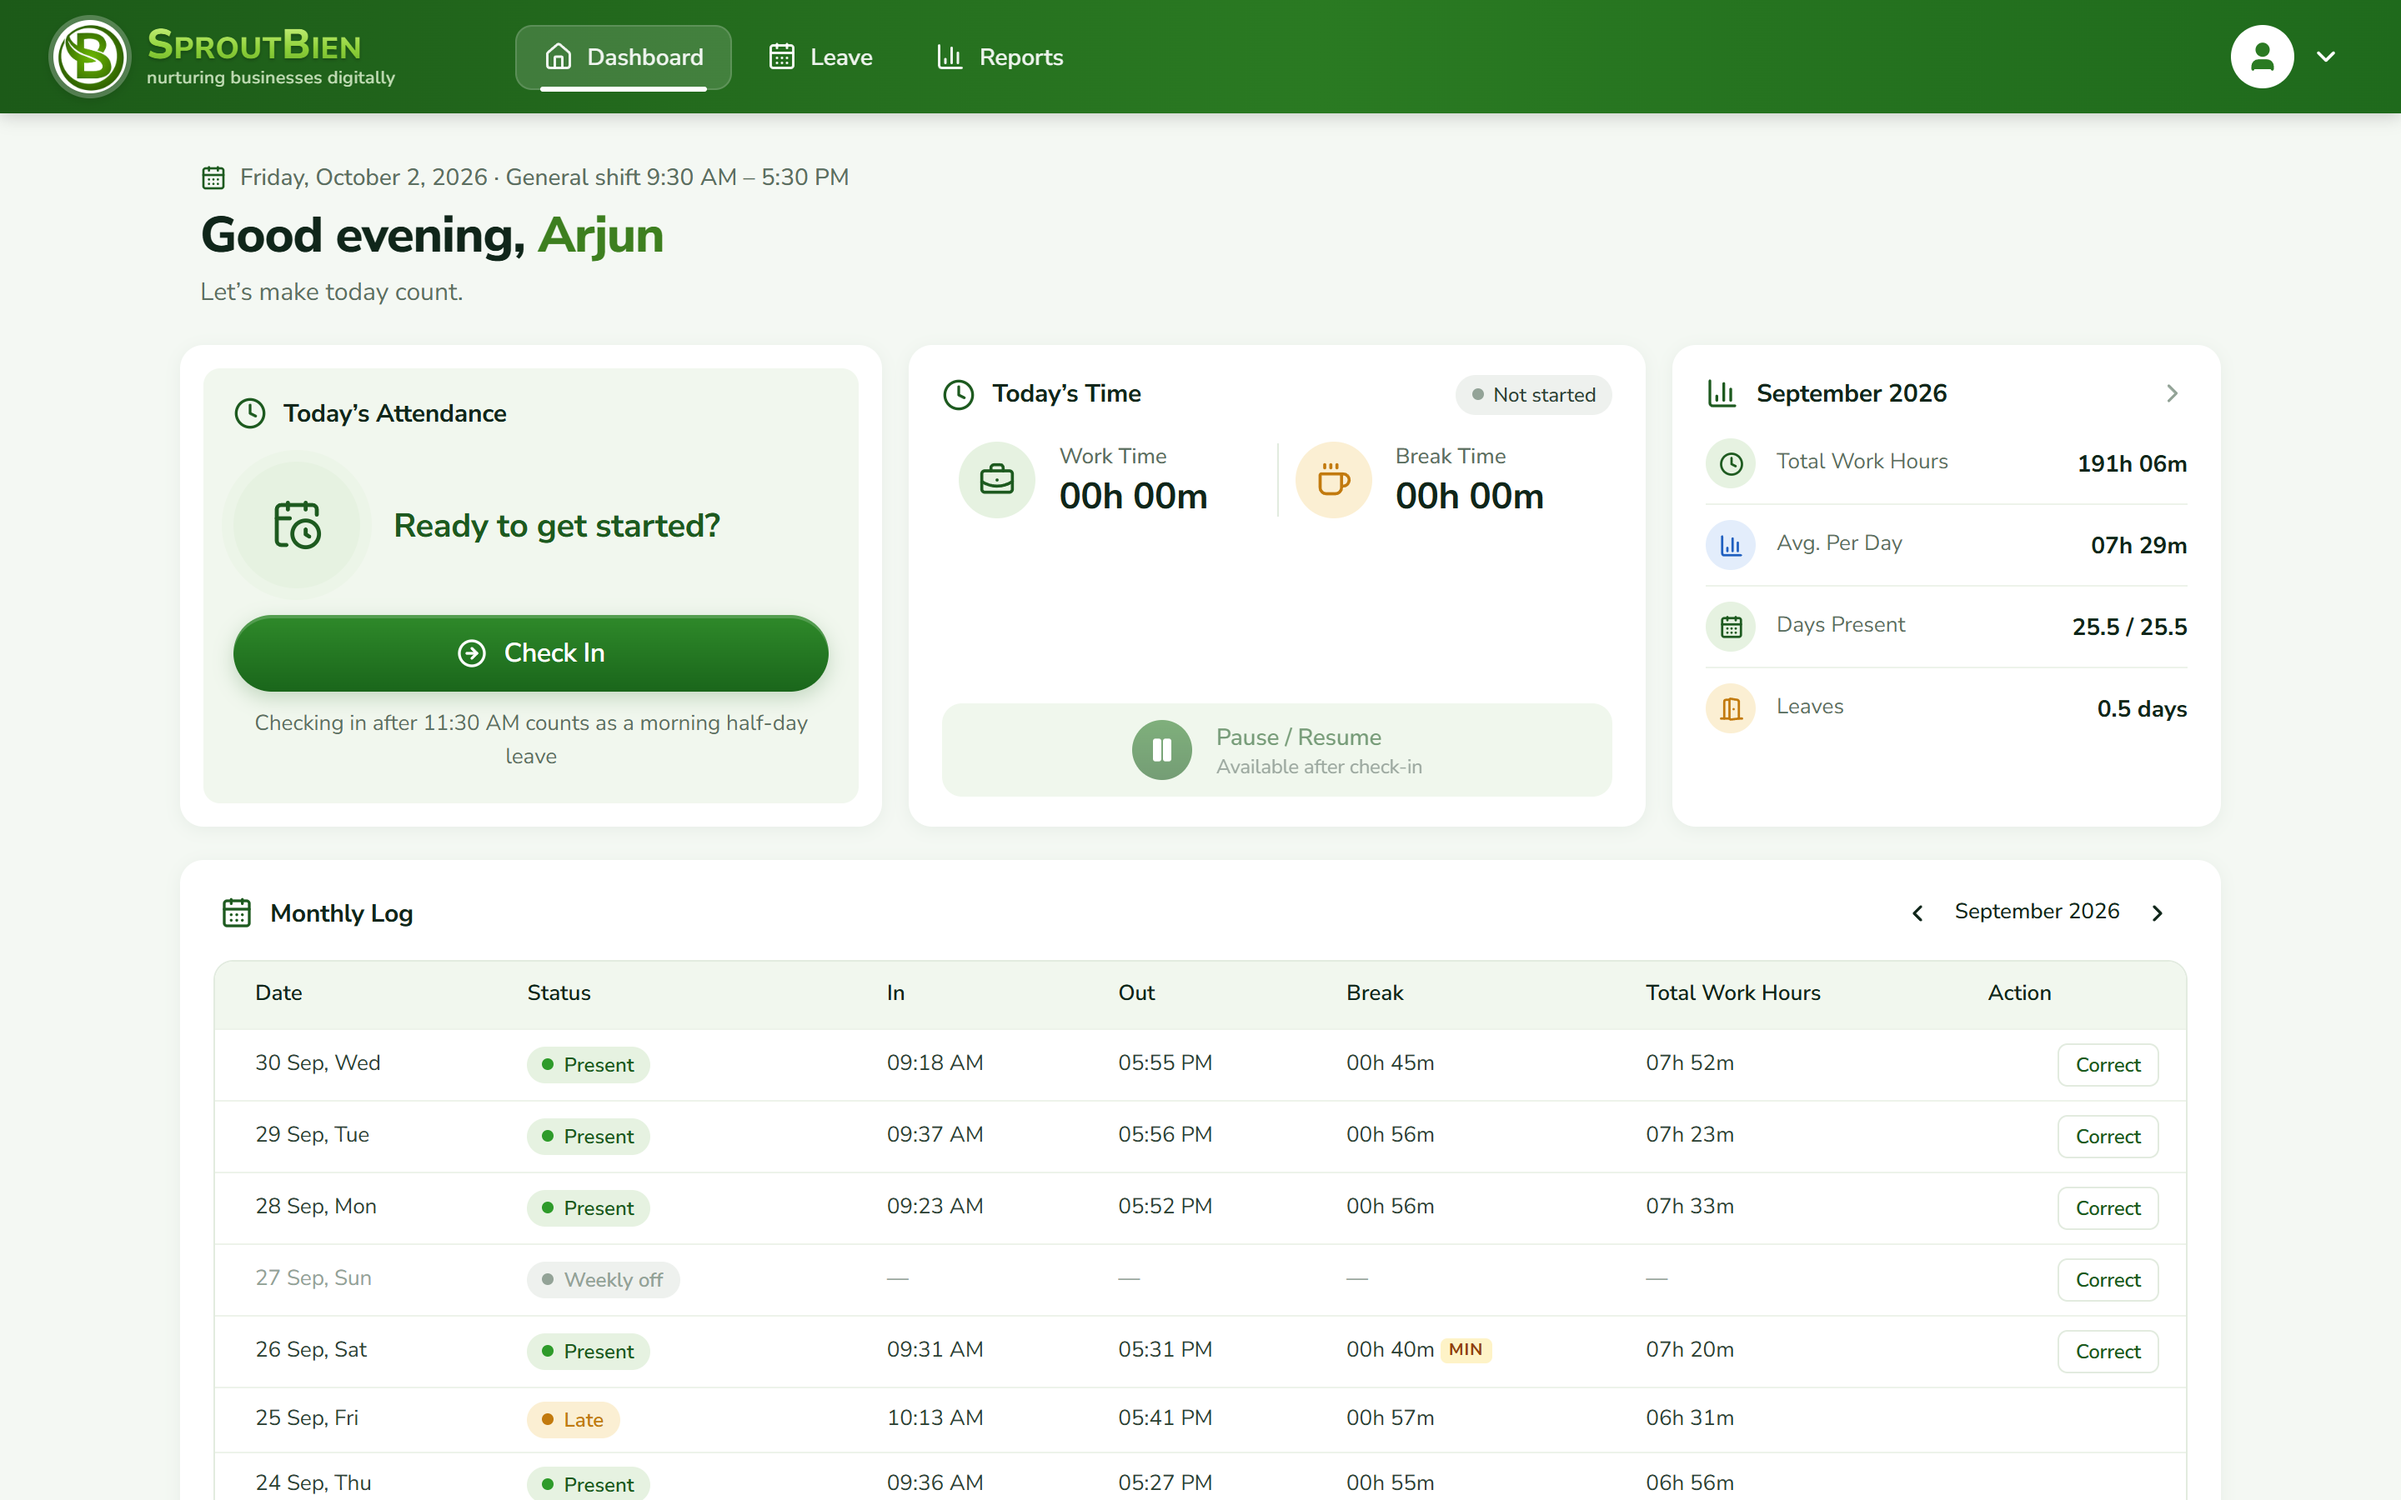
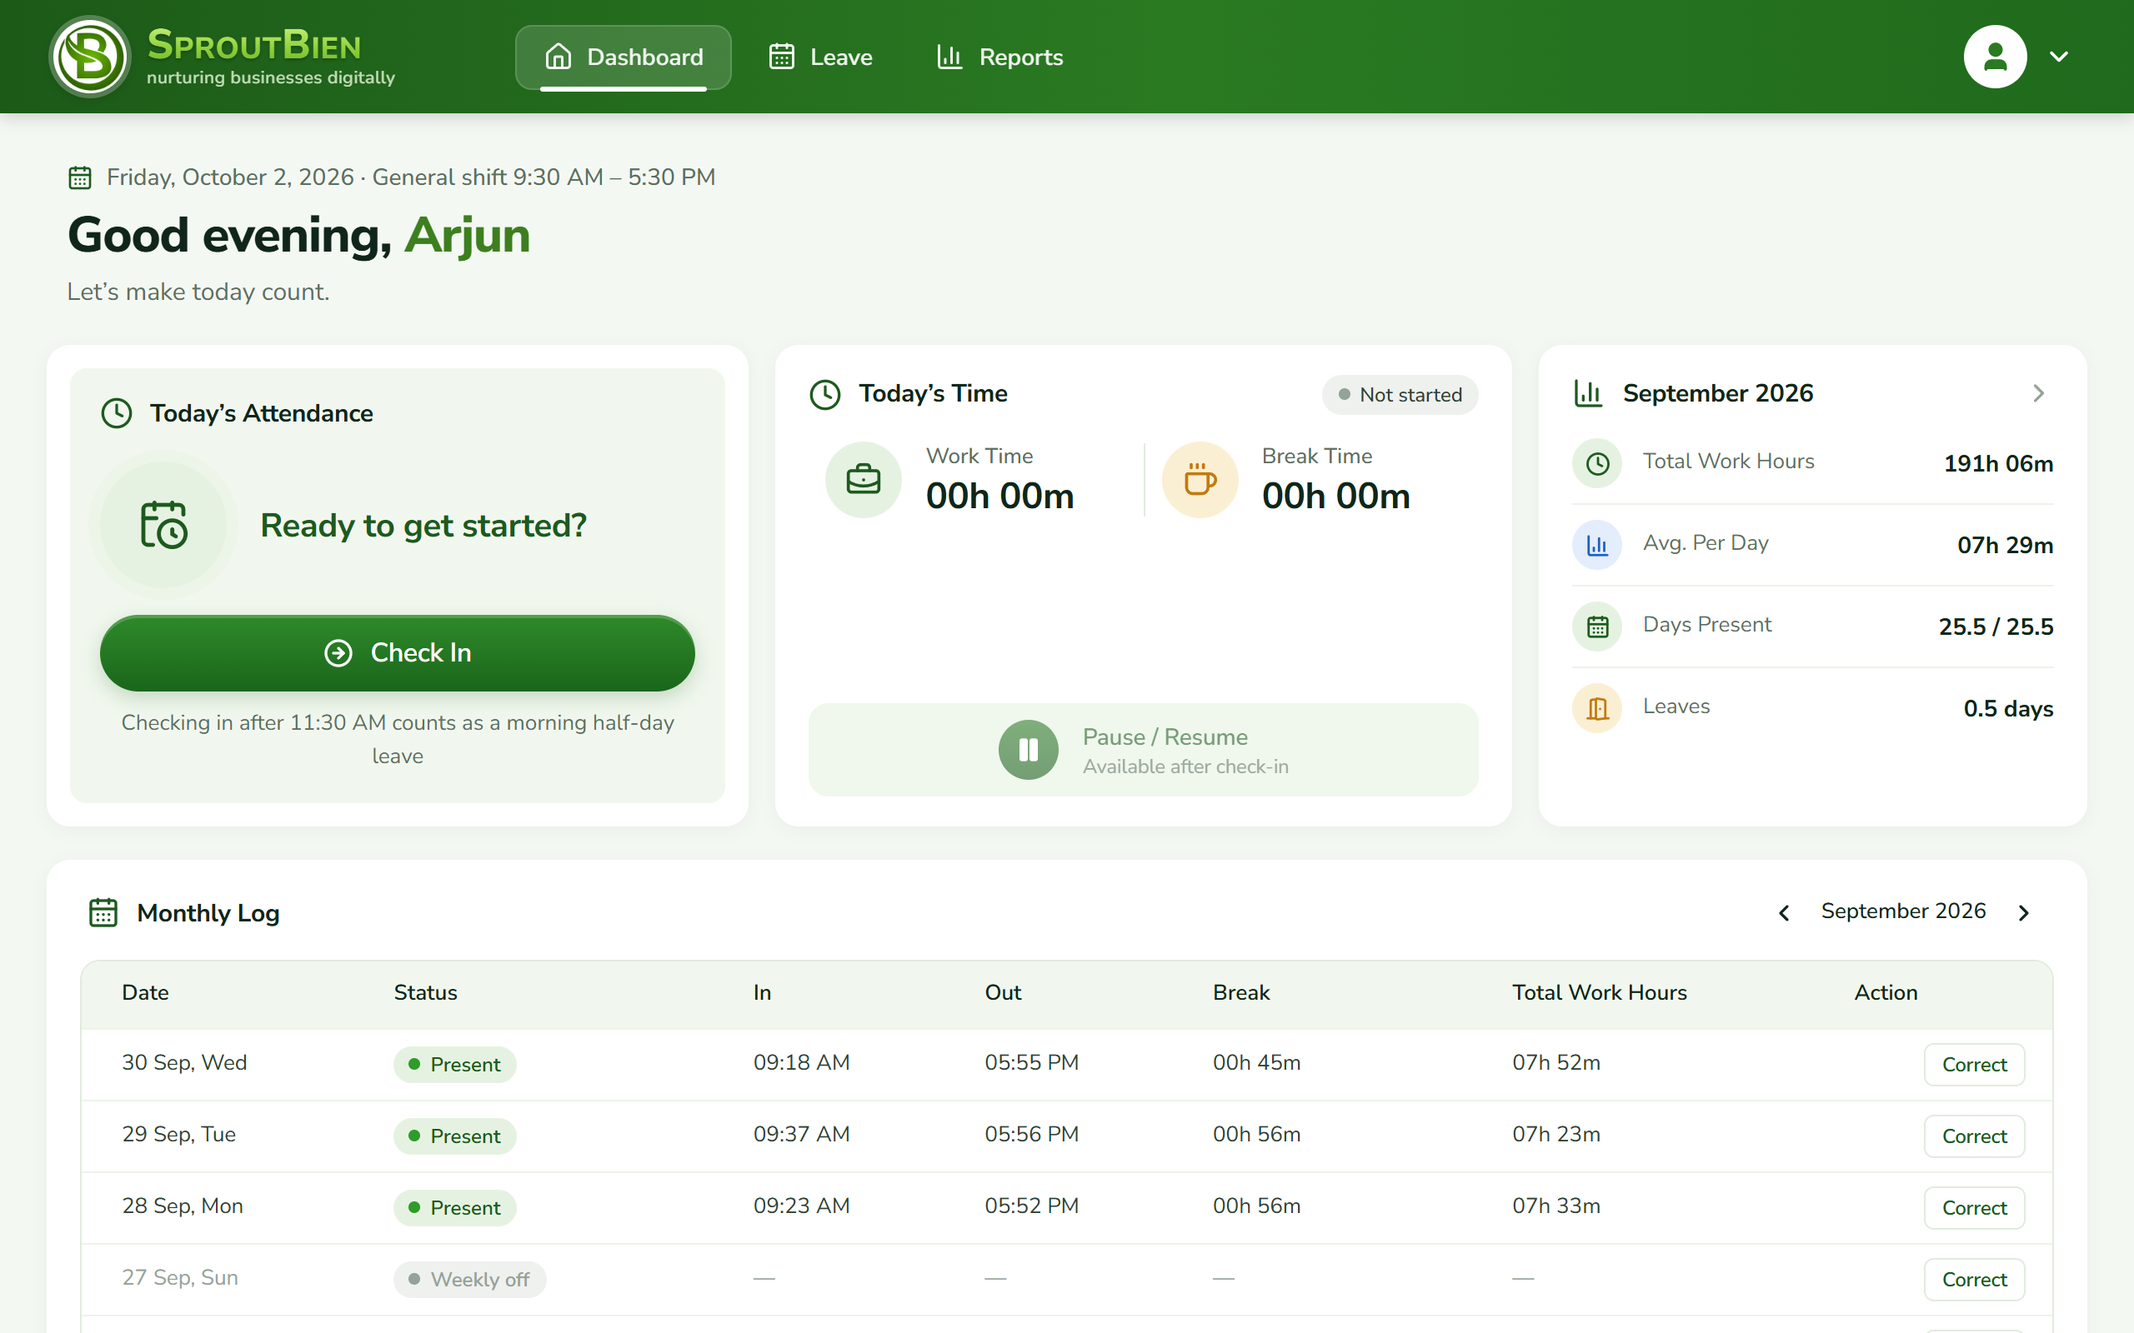
feat: light theme, bigger screenshots, click to enlarge
Always light. Wider layout with more room for screenshots, retaken at 1280x800
so their text is larger. Clicking a screenshot opens a full-screen viewer with
previous/next, Esc to close and tap-to-zoom on phones. Phone screenshots show
the app's new mobile layout.

diff --git a/src/styles.css b/src/styles.css
@@ -1,4 +1,4 @@
-/* Tokens follow the app's .sb-app palette (attendance-app/src/styles/app.css) */
+/* Tokens follow the app's .sb-app palette (attendance-app/src/styles/app.css). Light theme only. */
 :root {
   --bg:           #f4f8f3;
   --surface:      #ffffff;
@@ -18,40 +18,6 @@
   --shadow-lg:    0 24px 60px -24px rgba(22, 60, 26, 0.35);
   --radius:       16px;
   color-scheme: light;
-}
-
-@media (prefers-color-scheme: dark) {
-  :root:not([data-theme="light"]) {
-    --bg:           #0b1510;
-    --surface:      #111e16;
-    --surface-soft: #13221a;
-    --border:       #22362a;
-    --text-strong:  #e8f3ea;
-    --text:         #c9d9cd;
-    --text-muted:   #93a99a;
-    --green:        #7fd35a;
-    --green-dark:   #8fdc6a;
-    --green-soft:   #1b3322;
-    --band:         linear-gradient(120deg, #0c2a0d 0%, #133f13 50%, #174a17 100%);
-    --shadow:       0 2px 12px rgba(0, 0, 0, 0.35);
-    --shadow-lg:    0 24px 60px -24px rgba(0, 0, 0, 0.7);
-    color-scheme: dark;
-  }
-}
-
-:root[data-theme="dark"] {
-  --bg:           #0b1510;
-  --surface:      #111e16;
-  --surface-soft: #13221a;
-  --border:       #22362a;
-  --text-strong:  #e8f3ea;
-  --text:         #c9d9cd;
-  --text-muted:   #93a99a;
-  --green:        #7fd35a;
-  --green-dark:   #8fdc6a;
-  --green-soft:   #1b3322;
-  --band:         linear-gradient(120deg, #0c2a0d 0%, #133f13 50%, #174a17 100%);
-  color-scheme: dark;
 }
 
 *, *::before, *::after { box-sizing: border-box; }
@@ -93,7 +59,7 @@ code {
 
 .wrap {
   width: 100%;
-  max-width: 1160px;
+  max-width: 1320px;
   margin: 0 auto;
   padding: 0 16px;
 }
@@ -284,7 +250,7 @@ code {
 .hero-grid {
   position: relative;
   display: grid;
-  grid-template-columns: 1fr 1.15fr;
+  grid-template-columns: 0.85fr 1.35fr;
   gap: 48px;
   align-items: center;
 }
@@ -403,8 +369,8 @@ code {
 
 .feature-row {
   display: grid;
-  grid-template-columns: 0.85fr 1.15fr;
-  gap: 56px;
+  grid-template-columns: 0.62fr 1.38fr;
+  gap: 48px;
   align-items: center;
 }
 .feature-row--flip .feature-copy { order: 2; }
@@ -420,7 +386,7 @@ code {
 
 .gallery {
   display: grid;
-  grid-template-columns: 300px 1fr;
+  grid-template-columns: 250px 1fr;
   gap: 32px;
   align-items: start;
 }
@@ -467,7 +433,7 @@ code {
   display: grid;
   grid-template-columns: repeat(4, 1fr);
   gap: 28px;
-  max-width: 980px;
+  max-width: 1180px;
   margin: 0 auto;
 }
 
@@ -808,3 +774,114 @@ code {
   box-shadow: 0 10px 24px -8px rgba(0, 0, 0, 0.4);
 }
 .wa-float:hover { transform: scale(1.05); }
+
+/* ── Click to enlarge ────────────────────────────────────── */
+
+.shot-open {
+  position: relative;
+  display: block;
+  width: 100%;
+  height: 100%;
+  padding: 0;
+  border: 0;
+  background: none;
+  cursor: zoom-in;
+}
+.shot-open img { width: 100%; height: 100%; }
+.phone-screen .shot-open img { object-fit: cover; object-position: top; }
+
+.shot-zoom {
+  position: absolute;
+  right: 12px;
+  bottom: 12px;
+  display: inline-flex;
+  align-items: center;
+  gap: 0.4rem;
+  padding: 0.4rem 0.75rem;
+  border-radius: 999px;
+  background: rgba(16, 38, 26, 0.82);
+  color: #fff;
+  font-size: 0.82rem;
+  font-weight: 700;
+  opacity: 0;
+  transform: translateY(4px);
+  transition: opacity 0.15s, transform 0.15s;
+}
+.shot-open:hover .shot-zoom, .shot-open:focus-visible .shot-zoom { opacity: 1; transform: none; }
+@media (hover: none) { .shot-zoom { opacity: 1; transform: none; font-size: 0.75rem; } }
+
+.lightbox {
+  position: fixed;
+  inset: 0;
+  z-index: 100;
+  display: flex;
+  flex-direction: column;
+  background: #0b1a10;
+  animation: lb-in 0.15s ease;
+}
+@keyframes lb-in { from { opacity: 0; } }
+@media (prefers-reduced-motion: reduce) { .lightbox { animation: none; } }
+
+.lightbox-top {
+  display: flex;
+  align-items: center;
+  gap: 1rem;
+  padding: 12px 16px;
+  color: #fff;
+}
+.lightbox-title { display: grid; min-width: 0; flex: 1; line-height: 1.35; }
+.lightbox-title span { font-size: 0.88rem; color: rgba(255, 255, 255, 0.7); }
+.lightbox-count { font-size: 0.85rem; color: rgba(255, 255, 255, 0.7); white-space: nowrap; }
+
+.lightbox-stage {
+  flex: 1;
+  min-height: 0;
+  display: flex;
+  align-items: center;
+  justify-content: center;
+  padding: 0 72px 24px;
+  overflow: auto;
+}
+
+.lightbox-img {
+  max-width: 100%;
+  max-height: 100%;
+  border-radius: 10px;
+  box-shadow: 0 30px 80px -20px rgba(0, 0, 0, 0.7);
+  background: #fff;
+  cursor: default;
+}
+.lightbox-img--phone { border-radius: 22px; }
+
+.lightbox-btn {
+  display: grid;
+  place-items: center;
+  flex: none;
+  width: 46px;
+  height: 46px;
+  border: 1px solid rgba(255, 255, 255, 0.25);
+  border-radius: 50%;
+  background: rgba(255, 255, 255, 0.1);
+  color: #fff;
+  cursor: pointer;
+}
+.lightbox-btn:hover { background: rgba(255, 255, 255, 0.2); }
+.lightbox-prev, .lightbox-next { position: absolute; top: 50%; transform: translateY(-50%); }
+.lightbox-prev { left: 14px; }
+.lightbox-next { right: 14px; }
+
+/* Phones: full width image (pinch to zoom), arrows at the bottom */
+@media (max-width: 720px) {
+  .lightbox-stage { padding: 0 8px 76px; align-items: flex-start; }
+  .lightbox-img { max-height: none; }
+  .lightbox-img--phone { max-width: 88%; max-height: calc(100% - 8px); }
+  .lightbox-prev, .lightbox-next { top: auto; bottom: 16px; transform: none; }
+  .lightbox-prev { left: calc(50% - 58px); }
+  .lightbox-next { right: calc(50% - 58px); }
+  .lightbox-count { display: none; }
+  .lightbox-img--desk { cursor: zoom-in; }
+  .lightbox-stage.is-zoomed { align-items: flex-start; justify-content: flex-start; }
+  .lightbox-stage.is-zoomed .lightbox-img--desk { max-width: none; width: 220%; cursor: zoom-out; }
+  .lightbox-hint { position: absolute; left: 0; right: 0; bottom: 70px; margin: 0; text-align: center; font-size: 0.8rem; color: rgba(255, 255, 255, 0.65); pointer-events: none; }
+}
+@media (min-width: 721px) { .lightbox-hint { display: none; } }

diff --git a/src/components/Screenshot.tsx b/src/components/Screenshot.tsx
@@ -1,6 +1,10 @@
-import { useState } from 'react'
-import { ImageIcon } from 'lucide-react'
+import { useEffect, useState } from 'react'
+import { ChevronLeft, ChevronRight, ImageIcon, Maximize2, X } from 'lucide-react'
 import type { Shot } from '../config'
+
+// Clicking any screenshot opens it in the lightbox (mounted once in App)
+const OPEN_EVENT = 'open-shot'
+const openShot = (shot: Shot) => window.dispatchEvent(new CustomEvent<Shot>(OPEN_EVENT, { detail: shot }))
 
 /** A screenshot in a browser frame; a missing file shows a placeholder instead of a broken image. */
 export function BrowserShot({ shot, eager }: { shot: Shot; eager?: boolean }) {
@@ -13,12 +17,15 @@ export function BrowserShot({ shot, eager }: { shot: Shot; eager?: boolean }) {
       {missing ? (
         <Placeholder title={shot.title} />
       ) : (
-        <img
-          src={`/screens/${shot.file}`}
-          alt={`${shot.title} — ${shot.caption}`}
-          loading={eager ? 'eager' : 'lazy'}
-          onError={() => setMissing(true)}
-        />
+        <button type="button" className="shot-open" onClick={() => openShot(shot)} aria-label={`Enlarge: ${shot.title}`}>
+          <img
+            src={`/screens/${shot.file}`}
+            alt={`${shot.title} — ${shot.caption}`}
+            loading={eager ? 'eager' : 'lazy'}
+            onError={() => setMissing(true)}
+          />
+          <span className="shot-zoom" aria-hidden="true"><Maximize2 size={16} /> Click to enlarge</span>
+        </button>
       )}
     </figure>
   )
@@ -32,7 +39,9 @@ export function PhoneShot({ shot }: { shot: Shot }) {
         {missing ? (
           <Placeholder title={shot.title} />
         ) : (
-          <img src={`/screens/${shot.file}`} alt={`${shot.title} on a phone`} loading="lazy" onError={() => setMissing(true)} />
+          <button type="button" className="shot-open" onClick={() => openShot(shot)} aria-label={`Enlarge: ${shot.title} on a phone`}>
+            <img src={`/screens/${shot.file}`} alt={`${shot.title} on a phone`} loading="lazy" onError={() => setMissing(true)} />
+          </button>
         )}
       </div>
       <figcaption>
@@ -48,6 +57,68 @@ function Placeholder({ title }: { title: string }) {
     <div className="shot-placeholder">
       <ImageIcon size={28} strokeWidth={1.5} />
       <span>{title}</span>
+    </div>
+  )
+}
+
+/** Full-size viewer with previous / next across all screenshots. Esc or a click outside closes it. */
+export function Lightbox({ shots }: { shots: Shot[] }) {
+  const [index, setIndex] = useState<number | null>(null)
+  const [zoomed, setZoomed] = useState(false)
+
+  useEffect(() => {
+    const onOpen = (e: Event) => {
+      const file = (e as CustomEvent<Shot>).detail.file
+      const i = shots.findIndex(s => s.file === file)
+      setIndex(i >= 0 ? i : null)
+    }
+    window.addEventListener(OPEN_EVENT, onOpen)
+    return () => window.removeEventListener(OPEN_EVENT, onOpen)
+  }, [shots])
+
+  const open = index !== null
+  useEffect(() => setZoomed(false), [index])
+  const step = (d: number) => setIndex(i => (i === null ? i : (i + d + shots.length) % shots.length))
+
+  useEffect(() => {
+    if (!open) return
+    const onKey = (e: KeyboardEvent) => {
+      if (e.key === 'Escape') setIndex(null)
+      if (e.key === 'ArrowRight') step(1)
+      if (e.key === 'ArrowLeft') step(-1)
+    }
+    window.addEventListener('keydown', onKey)
+    const overflow = document.body.style.overflow
+    document.body.style.overflow = 'hidden'
+    return () => { window.removeEventListener('keydown', onKey); document.body.style.overflow = overflow }
+  }, [open])  // eslint-disable-line react-hooks/exhaustive-deps
+
+  if (index === null) return null
+  const shot = shots[index]
+  const isPhone = shot.file.startsWith('phone-')
+
+  return (
+    <div className="lightbox" role="dialog" aria-modal="true" aria-label={shot.title} onClick={() => setIndex(null)}>
+      <div className="lightbox-top" onClick={e => e.stopPropagation()}>
+        <div className="lightbox-title">
+          <strong>{shot.title}</strong>
+          <span>{shot.caption}</span>
+        </div>
+        <span className="lightbox-count">{index + 1} / {shots.length}</span>
+        <button type="button" className="lightbox-btn" onClick={() => setIndex(null)} aria-label="Close"><X size={22} /></button>
+      </div>
+      <div className={`lightbox-stage${zoomed ? ' is-zoomed' : ''}`}>
+        <img
+          key={shot.file}
+          className={isPhone ? 'lightbox-img lightbox-img--phone' : 'lightbox-img lightbox-img--desk'}
+          src={`/screens/${shot.file}`}
+          alt={`${shot.title} — ${shot.caption}`}
+          onClick={e => { e.stopPropagation(); if (!isPhone) setZoomed(z => !z) }}
+        />
+      </div>
+      {!isPhone && <p className="lightbox-hint">{zoomed ? 'Tap the image to fit the screen' : 'Tap the image to zoom in'}</p>}
+      <button type="button" className="lightbox-btn lightbox-prev" onClick={e => { e.stopPropagation(); step(-1) }} aria-label="Previous screenshot"><ChevronLeft size={26} /></button>
+      <button type="button" className="lightbox-btn lightbox-next" onClick={e => { e.stopPropagation(); step(1) }} aria-label="Next screenshot"><ChevronRight size={26} /></button>
     </div>
   )
 }

diff --git a/src/App.tsx b/src/App.tsx
@@ -5,8 +5,10 @@ import {
   Palette, ShieldCheck, Smartphone, Timer, TrendingUp, UserCog, Users, X,
 } from 'lucide-react'
 import { CONTACT, DEMO_LOGINS, DEMO_PASSWORD, DEMO_URL, GST_NOTE, PHONE_SHOTS, PLANS, PRICING_FOOTNOTES, SHOTS } from './config'
-import { BrowserShot, PhoneShot } from './components/Screenshot'
+import { BrowserShot, Lightbox, PhoneShot } from './components/Screenshot'
 import ContactForm from './components/ContactForm'
+
+const ALL_SHOTS = [...Object.values(SHOTS), ...PHONE_SHOTS]
 
 const WA_LINK = `https://wa.me/${CONTACT.whatsapp}?text=${encodeURIComponent(CONTACT.whatsappText)}`
 
@@ -38,6 +40,7 @@ export default function App() {
         <Contact plan={plan} setPlan={setPlan} />
       </main>
       <Footer />
+      <Lightbox shots={ALL_SHOTS} />
       <a className="wa-float" href={WA_LINK} target="_blank" rel="noreferrer" aria-label="Chat on WhatsApp">
         <MessageCircle size={26} />
       </a>

diff --git a/src/config.ts b/src/config.ts
@@ -105,5 +105,5 @@ export const PHONE_SHOTS: Shot[] = [
   { file: 'phone-dashboard.png',  title: 'Check in',   caption: 'One tap from the phone.' },
   { file: 'phone-leave.png',      title: 'Leave',      caption: 'Apply with a voice note.' },
   { file: 'phone-stats.png',      title: 'Statistics', caption: 'Their month, clearly.' },
-  { file: 'phone-admin.png',      title: 'Admin',      caption: 'Approve on the go.' },
+  { file: 'phone-admin.png',      title: 'Admin',      caption: 'Who’s in, at a glance.' },
 ]
